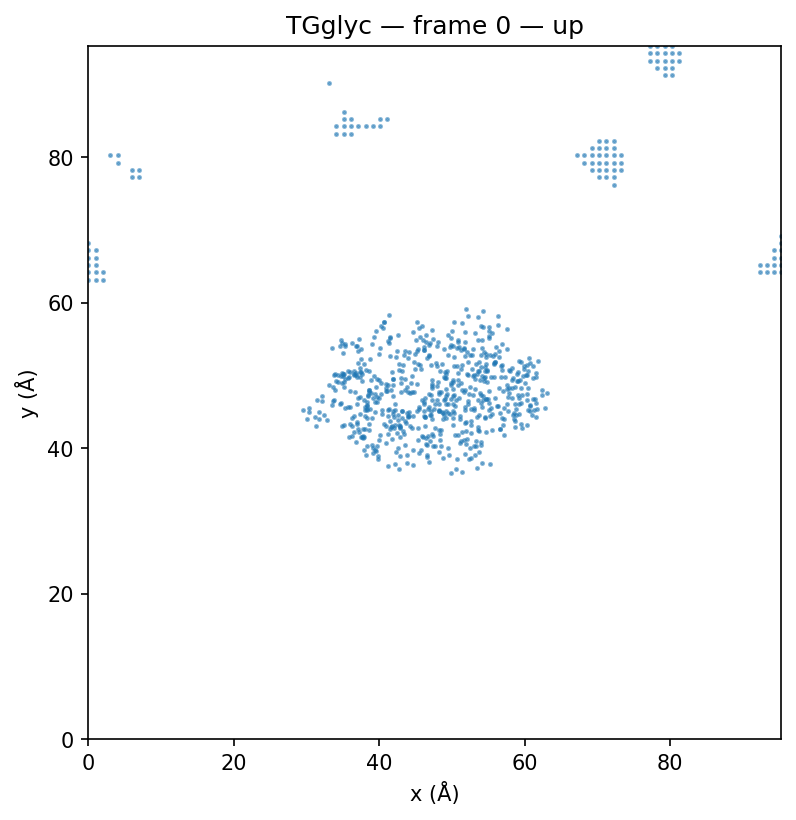
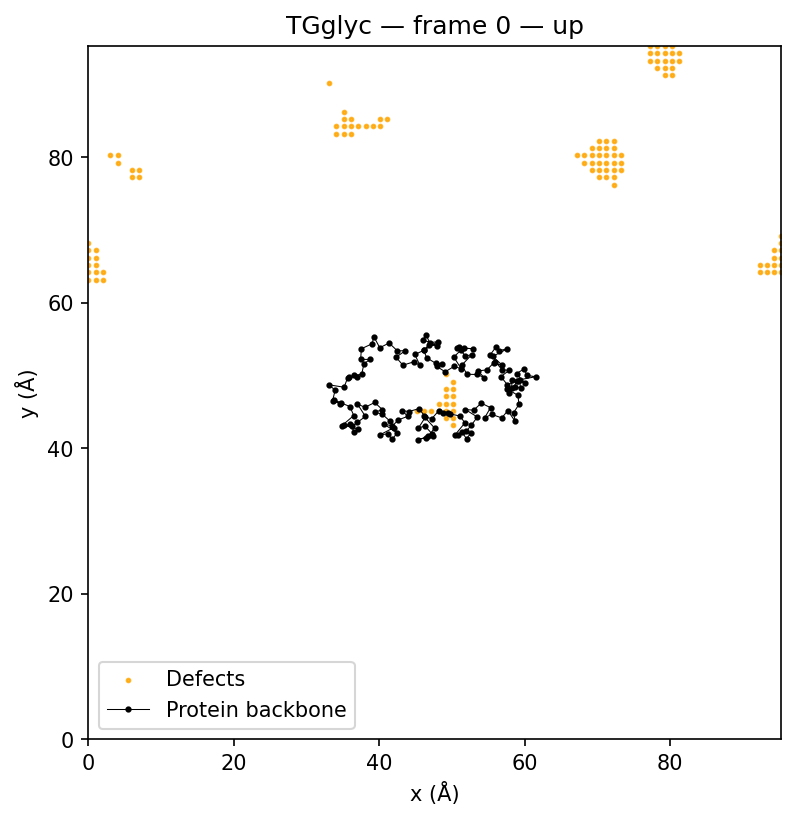
pytests

diff --git a/packing_defect/core/visualization.py b/packing_defect/core/visualization.py
@@ -3,24 +3,31 @@ import MDAnalysis as mda
 import matplotlib.pyplot as plt
 import numpy as np
 
-class LeafletVisualizer:
 
-    def __init__(self, base_dir, lipid, leaflet="up", method="box", dpi=150):
+class LeafletVisualizer:
+    """
+    Visualize lipid defect positions separated by leaflet, with optional protein backbone overlay.
+    """
+
+    def __init__(self, base_dir, lipid, leaflet="up", method="box", dpi=150,
+                 defect_color="blue", protein_color="red"):
         self.base_dir = base_dir
         self.lipid = lipid
         self.leaflet = leaflet
         self.method = method
         self.dpi = dpi
+        self.defect_color = defect_color
+        self.protein_color = protein_color
 
+    # ---------------- Internal helpers ----------------
     def _z_mid(self, u):
-        if self.method =='box':
+        if self.method == "box":
             return float(u.dimensions[2]) * 0.5
-        elif self.method =='data':
+        elif self.method == "data":
             z = u.atoms.positions[:, 2]
             return 0.5 * (float(z.min()) + float(z.max()))
         else:
             raise ValueError("method must be 'box' or 'data'")
-        
 
     def _leaflet_mask(self, u):
         mid = self._z_mid(u)
@@ -33,21 +40,43 @@ class LeafletVisualizer:
             raise ValueError("leaflet must be 'up' or 'dw'")
 
 
-    def _leaflet_xy(self, u):
-        mask = self._leaflet_mask(u)
-        pos = u.atoms.positions[mask]
+
+    def _defect_xy(self, u):
+        """Defect atoms = all non-protein atoms split by leaflet."""
+        sel = u.select_atoms("not protein")
+        mid = self._z_mid(u)
+        z = sel.positions[:, 2]
+        mask = (z > mid) if self.leaflet == "up" else (z <= mid)
+        pos = sel.positions[mask]
+        return pos[:, 0], pos[:, 1]
+
+    def _protein_xy(self, u):
+        """Protein backbone atoms restricted to the chosen leaflet."""
+        sel = u.select_atoms("protein and backbone")
+        if sel.n_atoms == 0:
+            return np.array([]), np.array([])
+
+        mid = self._z_mid(u)
+        z = sel.positions[:, 2]
+        mask = (z > mid) if self.leaflet == "up" else (z <= mid)
+        pos = sel.positions[mask]
         return pos[:, 0], pos[:, 1]
 
 
-    def render_frame(self, frame):
-        gro = os.path.join(self.base_dir, self.lipid, f"{self.lipid}_frame_{frame}.gro")
-        if not os.path.exists(gro):
-            return None
-
-        u = mda.Universe(gro)
+    # ---------------- Plotting ----------------
+    def _plot(self, u, frame, show=True, savepath=None):
         fig, ax = plt.subplots(figsize=(6, 6))
-        x, y = self._leaflet_xy(u)
-        ax.scatter(x, y, s=3, alpha=0.8)
+
+        # defects
+        x, y = self._defect_xy(u)
+        ax.scatter(x, y, s=3, alpha=0.8, c=self.defect_color, label="Defects")
+
+        # protein backbone
+        x, y = self._protein_xy(u)
+        if x.size > 0:
+            ax.plot(x, y, "o-", color=self.protein_color,
+                    markersize=2, linewidth=0.5, label="Protein backbone")
+
         Lx, Ly = u.dimensions[:2]
         if Lx and Ly:
             ax.set_xlim(0, Lx)
@@ -56,21 +85,44 @@ class LeafletVisualizer:
         ax.set_xlabel("x (Å)")
         ax.set_ylabel("y (Å)")
         ax.set_title(f"{self.lipid} — frame {frame} — {self.leaflet}")
+        ax.legend()
 
+        if savepath:
+            plt.savefig(savepath, dpi=self.dpi, bbox_inches="tight")
+            plt.close(fig)
+            return savepath
+
+        if show:
+            plt.show()
+
+        return fig, ax
+
+    def render_frame(self, frame):
+        """Save a single frame to PNG."""
+        gro = os.path.join(self.base_dir, self.lipid, f"{self.lipid}_frame_{frame}.gro")
+        if not os.path.exists(gro):
+            return None
+
+        u = mda.Universe(gro)
         outdir = os.path.join(self.base_dir, f"frames_{self.lipid}_{self.leaflet}")
         os.makedirs(outdir, exist_ok=True)
         outpng = os.path.join(outdir, f"{self.lipid}_{self.leaflet}_frame_{frame:04d}.png")
-
-        plt.savefig(outpng, dpi=self.dpi, bbox_inches="tight")
-        plt.close(fig)
-        return outpng
-
-
+        return self._plot(u, frame, show=False, savepath=outpng)
 
     def render_frames(self, start, stop):
+        """Save a range of frames to PNGs."""
         outputs = []
         for f in range(start, stop):
             out = self.render_frame(f)
             if out:
                 outputs.append(out)
         return outputs
+
+    def plot_frame(self, frame, show=True):
+        """Plot a single frame inline in a notebook."""
+        gro = os.path.join(self.base_dir, self.lipid, f"{self.lipid}_frame_{frame}.gro")
+        if not os.path.exists(gro):
+            return None, None
+
+        u = mda.Universe(gro)
+        return self._plot(u, frame, show=show)

diff --git a/packing_defect/tests/test_vis.py b/packing_defect/tests/test_vis.py
@@ -1,0 +1,93 @@
+# tests/test_leaflet_visualizer.py
+import matplotlib
+matplotlib.use("Agg")  
+import os
+import numpy as np
+import pytest
+import MDAnalysis as mda
+from MDAnalysis import Universe
+from packing_defect.core.visualization import LeafletVisualizer
+
+
+
+
+def make_universe(n_atoms=10, box=(100, 100, 100)):
+    """Create a dummy universe with atoms spread in z-dimension."""
+    u = Universe.empty(n_atoms,
+                       n_residues=n_atoms,
+                       atom_resindex=np.arange(n_atoms),
+                       residue_segindex=[0]*n_atoms,
+                       trajectory=True)
+    u.add_TopologyAttr("name", ["C"]*n_atoms)
+    u.add_TopologyAttr("resname", ["LIP"]*n_atoms)
+    u.add_TopologyAttr("resid", np.arange(n_atoms)+1)
+    # segid not needed
+
+    # random coordinates along z
+    coords = np.zeros((n_atoms, 3))
+    coords[:, 0] = np.linspace(0, box[0]-1, n_atoms)
+    coords[:, 1] = np.linspace(0, box[1]-1, n_atoms)
+    coords[:, 2] = np.linspace(0, box[2]-1, n_atoms)
+    u.atoms.positions = coords
+    u.trajectory.ts.dimensions = np.array([*box, 90, 90, 90])
+    return u
+
+
+
+@pytest.fixture
+def viz(tmp_path):
+    return LeafletVisualizer(base_dir=str(tmp_path),
+                             lipid="TEST",
+                             leaflet="up",
+                             defect_color="cyan",
+                             protein_color="black")
+
+
+def test_z_mid_box_method(viz):
+    u = make_universe()
+    assert np.isclose(viz._z_mid(u), 50.0)
+
+
+def test_z_mid_data_method(viz):
+    u = make_universe()
+    viz.method = "data"
+    mid = viz._z_mid(u)
+    assert 0 < mid < 100
+
+
+def test_leaflet_mask_up_and_dw(viz):
+    u = make_universe()
+    mask_up = viz._leaflet_mask(u)
+    assert mask_up.sum() > 0
+    viz.leaflet = "dw"
+    mask_dw = viz._leaflet_mask(u)
+    assert mask_dw.sum() > 0
+    assert (mask_up & mask_dw).sum() == 0
+
+
+def test_defect_xy_returns_coordinates(viz):
+    u = make_universe()
+    x, y = viz._defect_xy(u)
+    assert len(x) == len(y)
+    assert len(x) > 0
+
+
+def test_protein_xy_empty_if_no_protein(viz):
+    u = make_universe()
+    x, y = viz._protein_xy(u)
+    assert x.size == 0
+    assert y.size == 0
+
+
+def test_plot_and_render(tmp_path, viz):
+    u = make_universe()
+    fig, ax = viz._plot(u, frame=0, show=False)
+    assert fig is not None and ax is not None
+
+    # simulate .gro file to test render_frame
+    gro_path = tmp_path / "TEST" / "TEST_frame_0.gro"
+    os.makedirs(gro_path.parent, exist_ok=True)
+    u.atoms.write(str(gro_path))
+
+    out_file = viz.render_frame(0)
+    assert out_file and os.path.exists(out_file)
